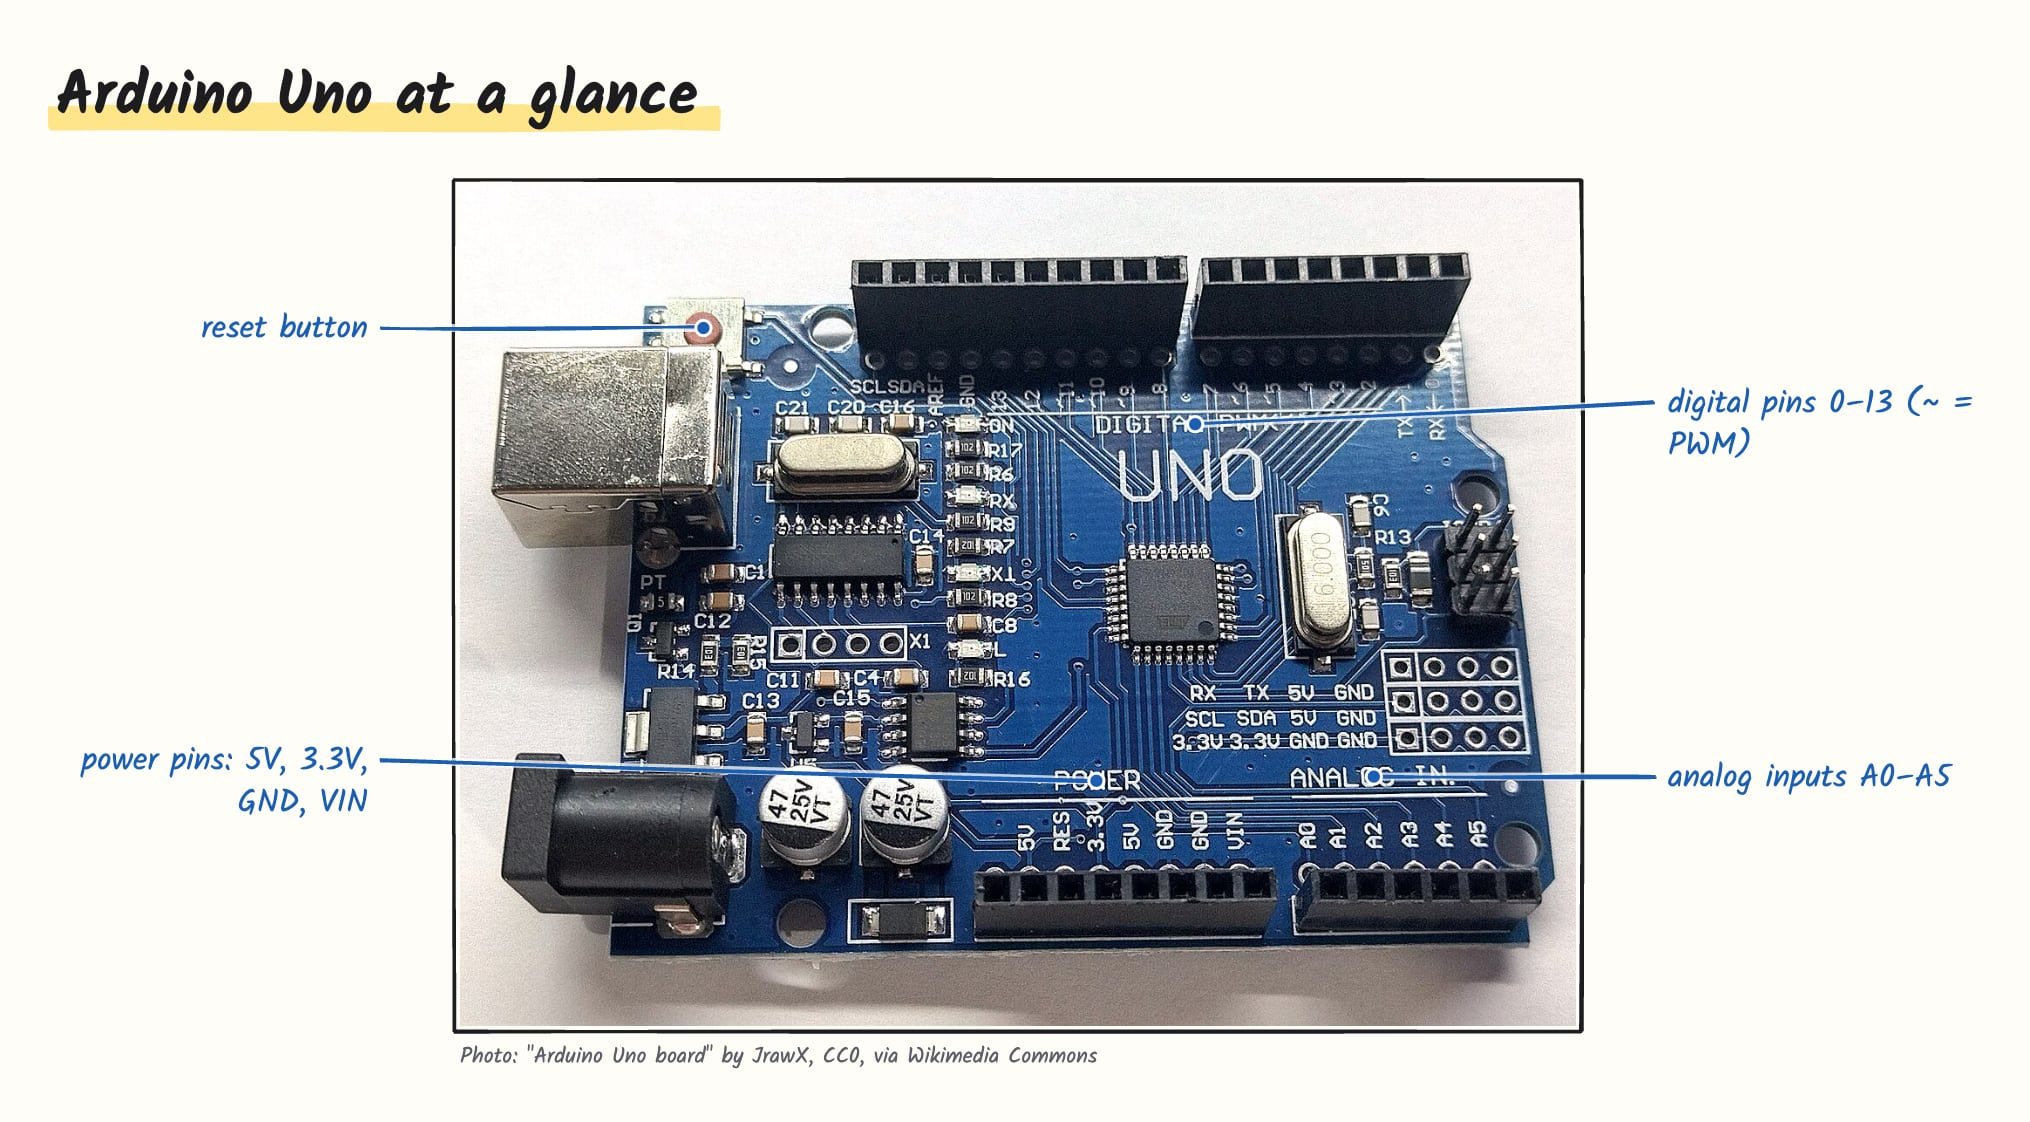
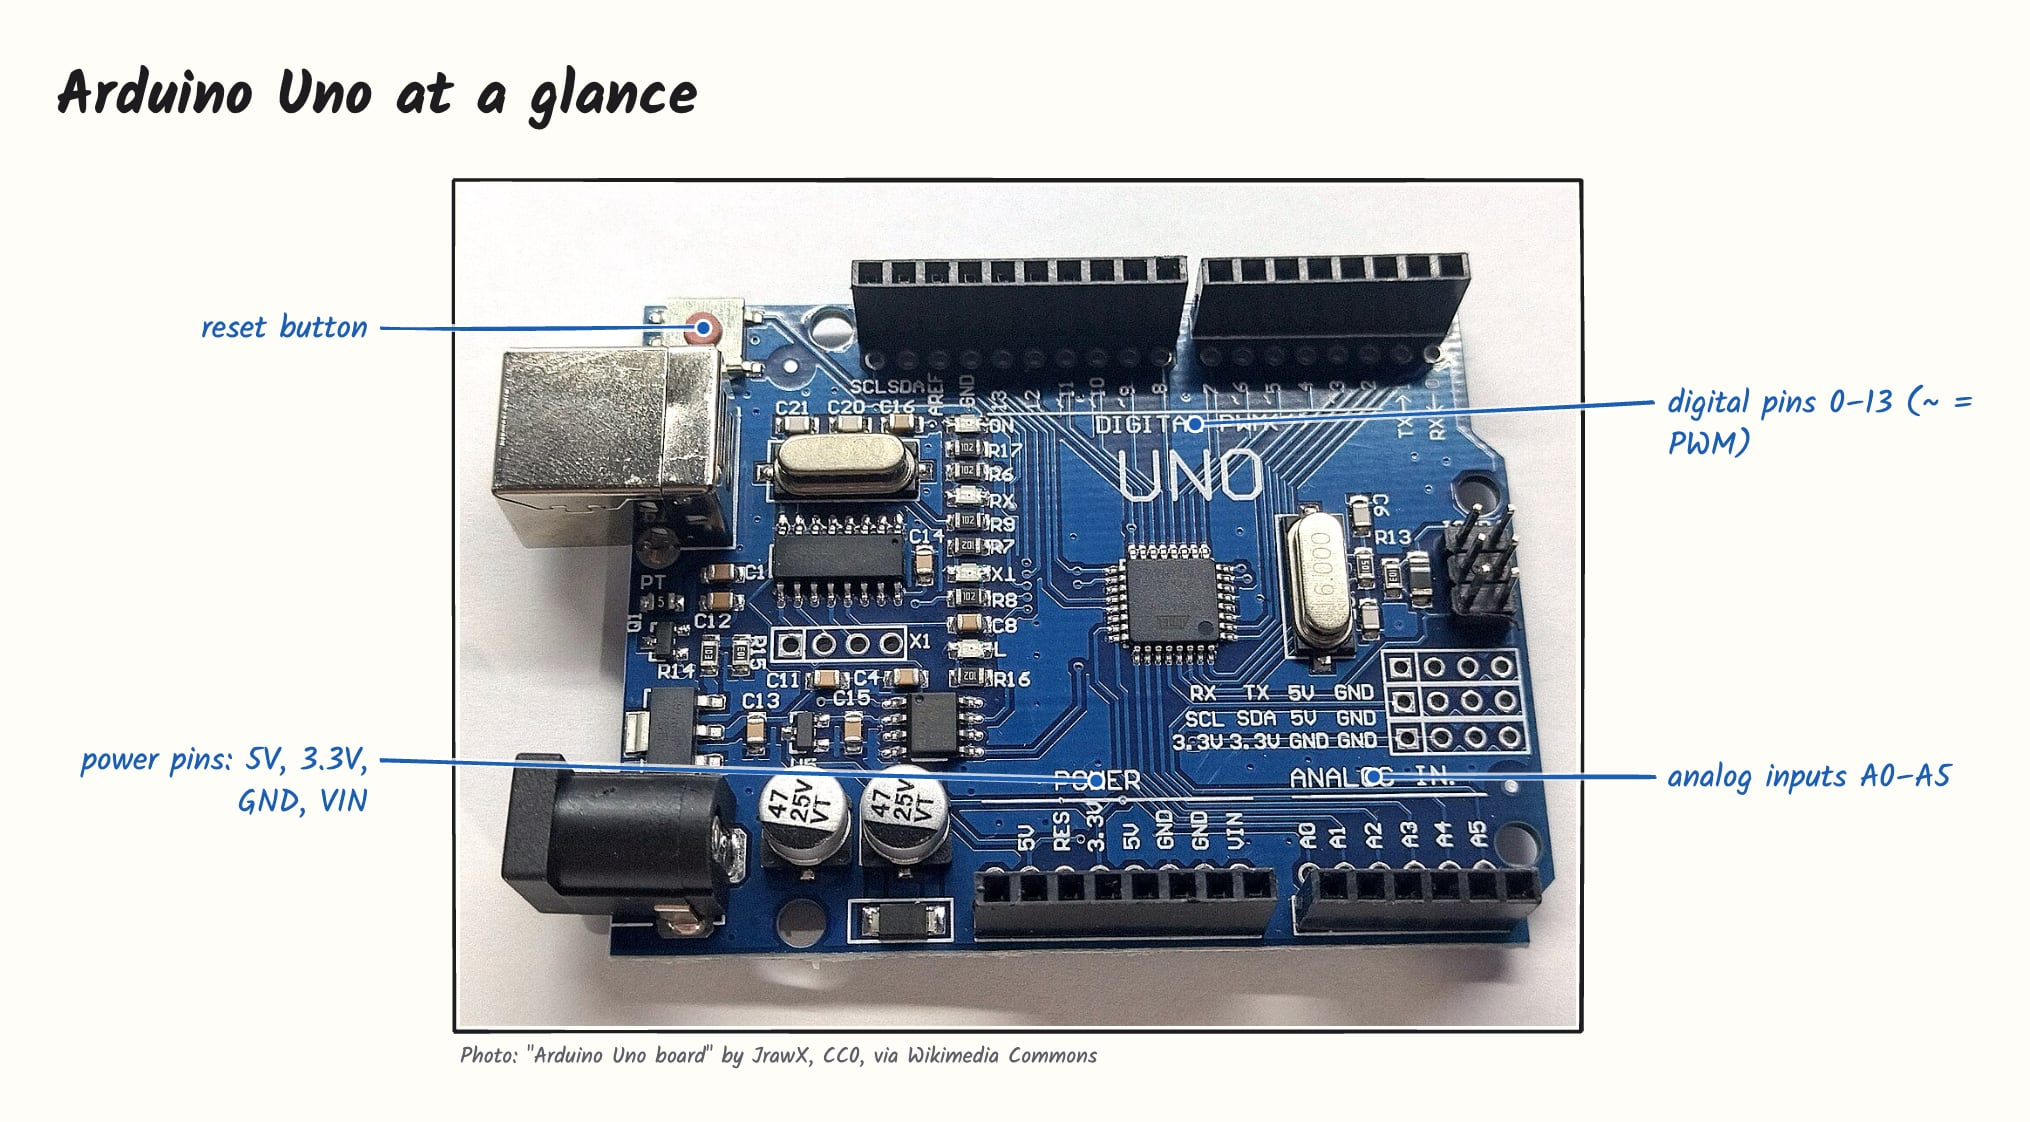
style(viewer): drop the marker stroke under the title

Changed region(s): [[0.0, 0.0936, 0.3724, 0.1248]]

diff --git a/viewer/src/render.ts b/viewer/src/render.ts
@@ -25,7 +25,6 @@ import {
   GROUP_FILL,
   INK,
   INK_SOFT,
-  MARKER,
   MUTED,
   PAPER,
   WIRE,
@@ -76,7 +75,7 @@ export function renderScene(scene: LaidOutScene, fontCss: string): RenderedScene
     elements.set(id, g);
   };
 
-  if (scene.title) drawTitle(svg, pen, scene);
+  if (scene.title) drawTitle(svg, scene);
 
   for (const group of scene.groups)
     add(groupsLayer, group.id, "group", (g) => drawGroup(g, pen, group));
@@ -92,24 +91,9 @@ export function renderScene(scene: LaidOutScene, fontCss: string): RenderedScene
   return { svg, elements, overlay, pen };
 }
 
-function drawTitle(svg: SVGSVGElement, pen: Pen, scene: LaidOutScene): void {
+function drawTitle(svg: SVGSVGElement, scene: LaidOutScene): void {
   const title = scene.title!;
   const g = el("g", { class: "title" });
-  // Marker stroke under the headline, drawn first so the text sits on it.
-  const y = title.y + title.height - 9;
-  g.appendChild(
-    pen.rc.line(
-      title.x - 4,
-      y,
-      title.x + Math.min(title.width, 520) + 6,
-      y + 2,
-      opts(pen, "title", {
-        stroke: MARKER,
-        strokeWidth: 11,
-        roughness: 1.6,
-      }),
-    ),
-  );
   g.appendChild(
     text({ x: title.x, y: title.y, lines: title.lines, size: FONT.title, weight: 700 }),
   );
